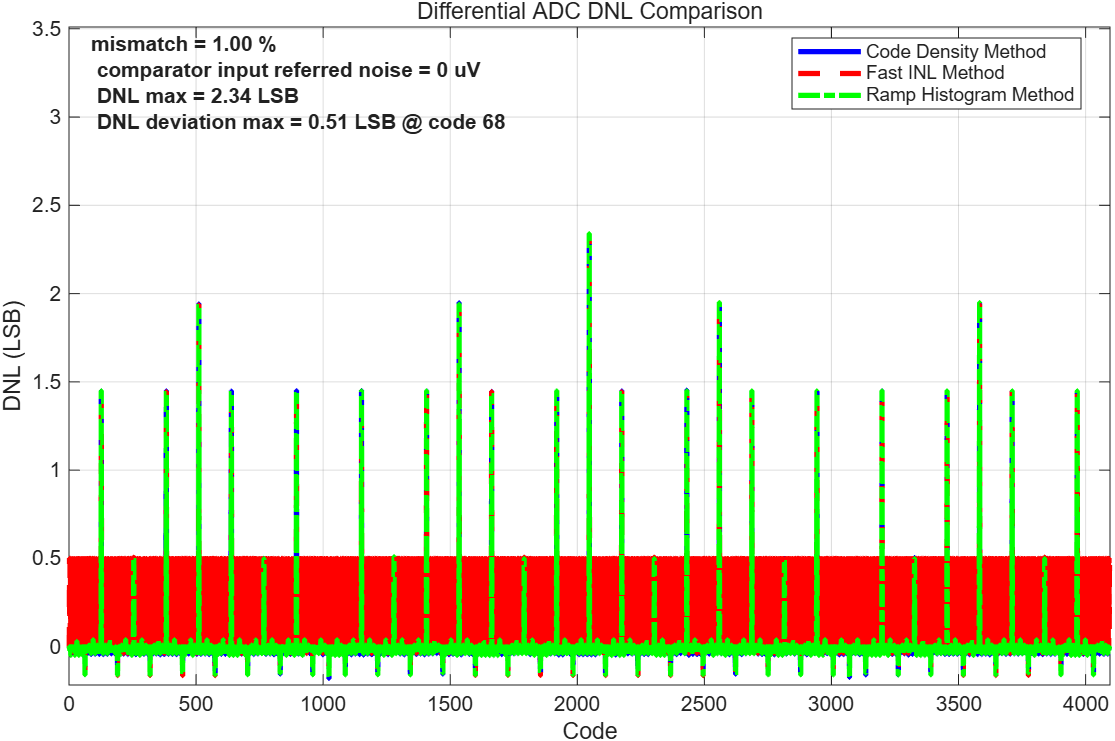
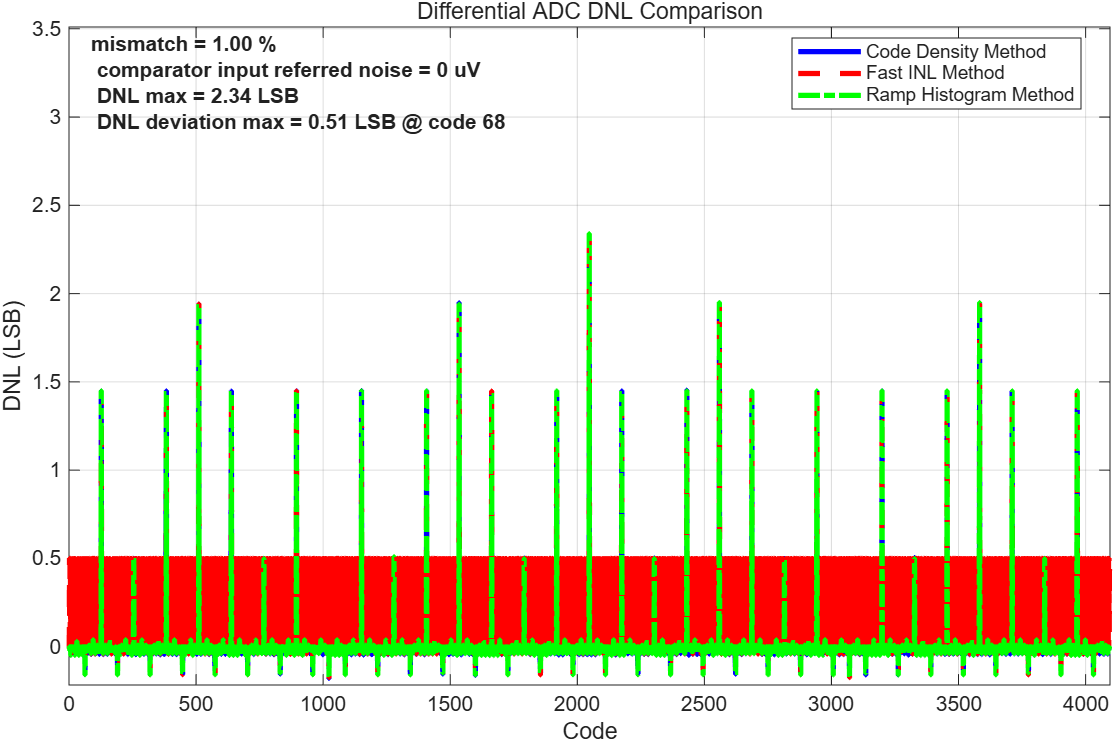
adjust the plots for the report

diff --git a/function/plotComparisonDifferentialAdcStaticSimulationResult.m b/function/plotComparisonDifferentialAdcStaticSimulationResult.m
@@ -11,11 +11,11 @@ function [dnlObj, inlObj] = plotComparisonDifferentialAdcStaticSimulationResult(
 
   %% plot type two dnl
 
-  plot( adcStaticPerformanceMetrics.dnlCodeIndex, adcStaticPerformanceMetrics.dnlResult( : , 2 ), 'r--', 'LineWidth', 2.5 );
+  plot( adcStaticPerformanceMetrics.dnlCodeIndex, adcStaticPerformanceMetrics.dnlResult( : , 2 ), 'r--', 'LineWidth', 2 );
 
   %% plot type three dnl
 
-  plot( adcStaticPerformanceMetrics.dnlCodeIndex, adcStaticPerformanceMetrics.dnlResult( : , 3 ), 'g--', 'LineWidth', 2.5 );
+  plot( adcStaticPerformanceMetrics.dnlCodeIndex, adcStaticPerformanceMetrics.dnlResult( : , 3 ), 'g-.s', 'LineWidth', 2.0, 'MarkerSize', 5, 'MarkerIndices', 1:80:length( adcStaticPerformanceMetrics.dnlCodeIndex ) );
 
   %% construct dnl result matrix
 
@@ -53,7 +53,7 @@ function [dnlObj, inlObj] = plotComparisonDifferentialAdcStaticSimulationResult(
 
   %% plot type three inl
 
-  plot( adcStaticPerformanceMetrics.inlCodeIndex, adcStaticPerformanceMetrics.inlResult( : , 3 ), 'g--', 'LineWidth', 2.5 );
+  plot( adcStaticPerformanceMetrics.inlCodeIndex, adcStaticPerformanceMetrics.inlResult( : , 3 ), 'g-.s', 'LineWidth', 2.0, 'MarkerSize', 5, 'MarkerIndices', 1:80:length( adcStaticPerformanceMetrics.inlCodeIndex ) );
 
   %% construct inl result matrix
 

diff --git a/function/plotDifferentialCdacTrace.m b/function/plotDifferentialCdacTrace.m
@@ -1,4 +1,4 @@
-function traceObj = plotDifferentialCdacTrace( p, randomTrace )
+function traceObj = plotDifferentialCdacTrace( p, randomTrace,switchingMode )
 
   %% determine comparator input trace
 
@@ -63,7 +63,17 @@ function traceObj = plotDifferentialCdacTrace( p, randomTrace )
   xlabel( 'Conversion Phase' );
   ylabel( 'Cdac Trace Voltage (V)' );
   legend( 'V_P', 'V_N', 'V_{CM}', 'Location', 'best' );
-  title( 'Monotonic Differential SAR ADC Conversion' );
+
+  %% choose the title
+  
+  switch lower( string( switchingMode ) )
+    case "conventional"
+      title( 'Conventional Differential SAR ADC Conversion' );
+    case "monotonic"
+      title( 'Monotonic Differential SAR ADC Conversion' );
+    otherwise
+      error( 'Invalid switching mode: %s', string( switchingMode ) );
+  end
   grid on;
 
 end

diff --git a/function/plotAdcStaticSimulationResult.m b/function/plotAdcStaticSimulationResult.m
@@ -46,7 +46,7 @@ function [dnlObj, inlObj] = plotAdcStaticSimulationResult( p, adcHistogramStatic
   statisticsText = sprintf( 'mismatch = %.2f %% \n comparator input referred noise = %.0f uV \n DNL max = %.2f LSB \n DNL deviation max = %.2f LSB @ code %d', p.mismatchStd * 100, p.compNoise * 1e6, max( abs( allDnlResult ) ), maxDnlDeviation, maxDnlDeviationCode );
   text( 0.001, 0.999, statisticsText, 'Units', 'normalized', 'HorizontalAlignment', 'left', 'VerticalAlignment', 'top', 'FontWeight', 'bold' );
   xlim( [0, 2 .^ p.adcResolution] );
-  ylim( [1.2 * min( allDnlResult ), 1.5 * max( allDnlResult )] );
+  ylim( [1.2 * min( allDnlResult ), 5 * max( allDnlResult )] );
   grid on;
 
   %% plot INL

diff --git a/testbench/sim-single-ended-cbw-adc/simSingleEndedCbwAdcStaticTest.m b/testbench/sim-single-ended-cbw-adc/simSingleEndedCbwAdcStaticTest.m
@@ -7,7 +7,7 @@ format long g
 
 %% set the seed
 
-rng( 16 );
+rng( 746 );
 
 %% load simulation configuration and parameters
 
@@ -99,5 +99,5 @@ adcFastInlStaticPerformanceMetrics = processAdcFastInlData( p, fastInlIdealDacOu
 drawingDnl = 'drawing/single-ended-cbw-adc-dnl-comparison.png';
 exportgraphics( dnlObj, drawingDnl );
 drawingInl = 'drawing/single-ended-cbw-adc-inl-comparison.png';
-exportgraphics( inlObj, drawingInl );
+
 

diff --git a/testbench/sim-single-ended-bwa-adc/simSingleEndedBwaAdcStaticTest.m b/testbench/sim-single-ended-bwa-adc/simSingleEndedBwaAdcStaticTest.m
@@ -7,7 +7,7 @@ format long g
 
 %% set the seed
 
-rng( 66 );
+rng( 753 );
 
 %% load simulation configuration and parameters
 
@@ -100,4 +100,3 @@ drawingDnl = 'drawing/single-ended-bwa-adc-dnl-comparison.png';
 exportgraphics( dnlObj, drawingDnl );
 drawingInl = 'drawing/single-ended-bwa-adc-inl-comparison.png';
 exportgraphics( inlObj, drawingInl );
-

diff --git a/testbench/sim-differential-bwa-conventional-adc/simDifferentialBwaConventionalSarAdc.m b/testbench/sim-differential-bwa-conventional-adc/simDifferentialBwaConventionalSarAdc.m
@@ -52,7 +52,7 @@ obj = plotAdcDynamicSimulationResult( p, adcDynamicPerformanceMetrics );
 
 randomIndex = randi( p.fftLen );
 randomTrace = squeeze( cdacTrace( randomIndex, :, : ) );
-traceObj = plotDifferentialCdacTrace( p, randomTrace );
+traceObj = plotDifferentialCdacTrace( p, randomTrace, "conventional" );
 
 %% export plots
 

diff --git a/testbench/sim-differential-cbw-conventional-adc/simDifferentialCbwConventionalSarAdc.m b/testbench/sim-differential-cbw-conventional-adc/simDifferentialCbwConventionalSarAdc.m
@@ -52,7 +52,7 @@ obj = plotAdcDynamicSimulationResult( p, adcDynamicPerformanceMetrics );
 
 randomIndex = randi( p.fftLen );
 randomTrace = squeeze( cdacTrace( randomIndex, :, : ) );
-traceObj = plotDifferentialCdacTrace( p, randomTrace );
+traceObj = plotDifferentialCdacTrace( p, randomTrace, "conventional" );
 
 %% export plots
 

diff --git a/testbench/sim-differential-bwa-monotonic-adc/simDifferentialBwaMonotonicSarAdc.m b/testbench/sim-differential-bwa-monotonic-adc/simDifferentialBwaMonotonicSarAdc.m
@@ -52,7 +52,7 @@ obj = plotAdcDynamicSimulationResult( p, adcDynamicPerformanceMetrics );
 
 randomIndex = randi( p.fftLen );
 randomTrace = squeeze( cdacTrace( randomIndex, :, : ) );
-traceObj = plotDifferentialCdacTrace( p, randomTrace );
+traceObj = plotDifferentialCdacTrace( p, randomTrace, "monotonic" );
 
 %% export plots
 

diff --git a/testbench/sim-differential-cbw-monotonic-adc/simDifferentialCbwMonotonicSarAdc.m b/testbench/sim-differential-cbw-monotonic-adc/simDifferentialCbwMonotonicSarAdc.m
@@ -52,7 +52,7 @@ obj = plotAdcDynamicSimulationResult( p, adcDynamicPerformanceMetrics );
 
 randomIndex = randi( p.fftLen );
 randomTrace = squeeze( cdacTrace( randomIndex, :, : ) );
-traceObj = plotDifferentialCdacTrace( p, randomTrace );
+traceObj = plotDifferentialCdacTrace( p, randomTrace, "Monotonic" );
 
 %% export plots
 

diff --git a/function/genMonotonicCbwCdac.m b/function/genMonotonicCbwCdac.m
@@ -10,6 +10,6 @@ function capArray = genMonotonicCbwCdac( p )
 
   %% actual capacitor array
 
-   capArray = p.unitCap * normrnd( weightArray, p.mismatchStd .* sqrt( weightArray / p.numOfSmallestCap ) );
+   capArray = p.unitCap * normrnd( weightArray, p.mismatchStd .* sqrt( weightArray ) / p.numOfSmallestCap );
    
 end

diff --git a/function/genCbwCdac.m b/function/genCbwCdac.m
@@ -10,6 +10,6 @@ function capArray = genCbwCdac( p )
 
   %% actual capacitor array
   
-  capArray = p.unitCap * normrnd( weightArray, p.mismatchStd .* sqrt( weightArray / p.numOfSmallestCap ) );
+  capArray = p.unitCap * normrnd( weightArray, p.mismatchStd .* sqrt( weightArray ) / p.numOfSmallestCap );
 
 end

diff --git a/function/genSbwCdac.m b/function/genSbwCdac.m
@@ -10,6 +10,6 @@ function capArray = genSbwCdac( p )
 
   %% actual capacitor array
   
-  capArray = p.unitCap * normrnd( weightArray, p.mismatchStd .* sqrt( weightArray / p.numOfSmallestCap ) );
+  capArray = p.unitCap * normrnd( weightArray, p.mismatchStd .* sqrt( weightArray ) / p.numOfSmallestCap );
 
 end
